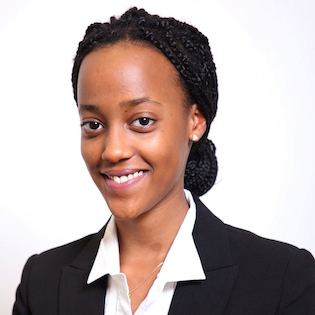
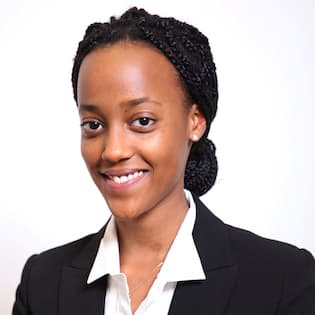
Compress images.

diff --git a/client/LandingPage/LandingPage.js b/client/LandingPage/LandingPage.js
@@ -26,7 +26,7 @@ import picTwo from '../images/groupMeetingCompressed.jpg';
 import picThree from '../images/outdoorsCompressed.jpg';
 
 import vlad from '../images/team-photos/vladCazacu.jpg';
-import annie from '../images/team-photos/annieHamburgen.png';
+import annie from '../images/team-photos/annieHamburgen.jpg';
 // import melissa from '../images/team-photos/melissaKagaju.jpg';
 import duncan from '../images/team-photos/duncanGrubbs.jpg';
 import daniel from '../images/team-photos/danielMunoz.jpg';
